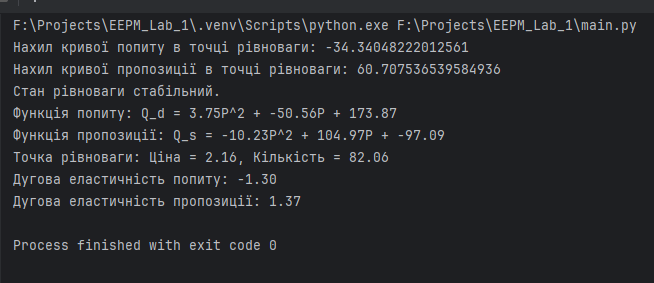
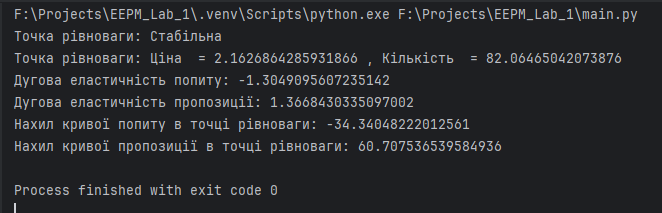
Coom1

diff --git a/main.py b/main.py
@@ -2,79 +2,73 @@ import numpy as np
 import matplotlib.pyplot as plt
 from scipy.optimize import curve_fit, fsolve
 
-prices = np.array([1.25, 1.57, 1.81, 2.09, 2.45, 2.8, 3.19, 3.58, 3.85, 4.25, 4.62, 5])
-demand_quantity = np.array([115, 109, 90, 85, 75, 58, 53, 40, 33, 30, 20, 14])
-supply_quantity = np.array([17, 40, 62, 80, 100, 117, 131, 145, 156, 165, 170, 172])
+price_array = np.array([1.25, 1.57, 1.81, 2.09, 2.45, 2.8, 3.19, 3.58, 3.85, 4.25, 4.62, 5])
+demand_volume = np.array([115, 109, 90, 85, 75, 58, 53, 40, 33, 30, 20, 14])
+supply_volume = np.array([17, 40, 62, 80, 100, 117, 131, 145, 156, 165, 170, 172])
 
-def poly_fit(x, a, b, c):
-    return a * x**2 + b * x + c
+def quadratic_fit(x, a, b, c):
+    return a * x ** 2 + b * x + c
 
-demand_params, _ = curve_fit(poly_fit, prices, demand_quantity)
+demand_coeffs = curve_fit(quadratic_fit, price_array, demand_volume)[0]
+supply_coeffs = curve_fit(quadratic_fit, price_array, supply_volume)[0]
 
-supply_params, _ = curve_fit(poly_fit, prices, supply_quantity)
+def find_balance(subvention=0):
+    balance_func = lambda p: quadratic_fit(p - subvention, *demand_coeffs) - quadratic_fit(p, *supply_coeffs)
+    equilibrium_cost = fsolve(balance_func, 2.5)[0]
+    equilibrium_amount = quadratic_fit(equilibrium_cost, *demand_coeffs)
+    return equilibrium_cost, equilibrium_amount
 
-def equilibrium(p, subsidy=0):
-    return poly_fit(p - subsidy, *demand_params) - poly_fit(p, *supply_params)
+balance_price, balance_quantity = find_balance()
+new_balance_price, new_balance_quantity = find_balance(subvention=1)
 
-equilibrium_price = fsolve(equilibrium, 2.5)[0]  # Початкове наближення ціни
+def arc_elasticity(q_start, q_end, p_start, p_end):
+    delta_q = (q_end - q_start) / ((q_end + q_start) / 2)
+    delta_p = (p_end - p_start) / ((p_end + p_start) / 2)
+    return delta_q / delta_p
 
-equilibrium_quantity = poly_fit(equilibrium_price, *demand_params)
+demand_elasticity = arc_elasticity(demand_volume[-1], demand_volume[0], price_array[-1], price_array[0])
+supply_elasticity = arc_elasticity(supply_volume[-1], supply_volume[0], price_array[-1], price_array[0])
 
-subsidy = 1
-new_equilibrium_price = fsolve(lambda p: equilibrium(p, subsidy), 2.5)[0]
-new_equilibrium_quantity = poly_fit(new_equilibrium_price, *demand_params)
+price_range = np.linspace(price_array.min(), price_array.max(), 100)
 
-def arc_elasticity(q1, q2, p1, p2):
-    dq = (q2 - q1) / ((q2 + q1) / 2)
-    dp = (p2 - p1) / ((p2 + p1) / 2)
-    return dq / dp
-
-demand_elasticity = arc_elasticity(demand_quantity[-1], demand_quantity[0], prices[-1], prices[0])
-supply_elasticity = arc_elasticity(supply_quantity[-1], supply_quantity[0], prices[-1], prices[0])
-
-prices_plot = np.linspace(prices.min(), prices.max(), 100)
-demand_plot = poly_fit(prices_plot, *demand_params)
-supply_plot = poly_fit(prices_plot, *supply_params)
-new_supply_plot = poly_fit(prices_plot - subsidy, *supply_params)  # Пропозиція з урахуванням дотації
+demand_curve = quadratic_fit(price_range, *demand_coeffs)
+supply_curve = quadratic_fit(price_range, *supply_coeffs)
+new_supply_curve = quadratic_fit(price_range - 1, *supply_coeffs)
 
 plt.figure(figsize=(10, 6))
-plt.plot(prices_plot, demand_plot, label='Попит', color='blue')
-plt.plot(prices_plot, supply_plot, label='Пропозиція', color='red')
-plt.plot(prices, demand_quantity, color='violet', linestyle='dashed', marker='o', label='Реальний попит')
-plt.plot(prices, supply_quantity, color='black', linestyle='dashed', marker='o', label='Реальна пропозиція')
-plt.plot(equilibrium_price, equilibrium_quantity, 'go', label='Точка рівноваги')
-plt.title('Функції попиту та пропозиції')
+plt.plot(price_array, demand_volume, color='violet', linestyle='dashed', marker='o', label='Реальний попит')
+plt.plot(price_array, supply_volume, color='black', linestyle='dashed', marker='o', label='Реальна пропозиція')
+plt.plot(price_range, demand_curve, label='Попит', color='blue')
+plt.plot(price_range, supply_curve, label='Пропозиція', color='red')
+plt.scatter(balance_price, balance_quantity, color='green', zorder=5, label='Точка рівноваги без дотацій')
+plt.title('Market Equilibrium')
 plt.xlabel('Ціна')
 plt.ylabel('Кількість')
 plt.legend()
 plt.grid(True)
-plt.show()
 
 plt.figure(figsize=(12, 8))
-plt.plot(prices_plot, demand_plot, label='Попит', color='blue')
-plt.plot(prices_plot, supply_plot, label='Пропозиція без дотації', color='red', linestyle='--')
-plt.plot(prices_plot, new_supply_plot, label='Пропозиція з дотацією', color='green')
-plt.scatter(equilibrium_price, equilibrium_quantity, color='black', zorder=5, label='Точка рівноваги без дотації')
-plt.scatter(new_equilibrium_price, new_equilibrium_quantity, color='orange', zorder=5, label='Точка рівноваги з дотацією')
-plt.title('Зміна ринкової рівноваги після введення дотації')
+plt.plot(price_range, demand_curve, label='Попит', color='blue')
+plt.plot(price_range, supply_curve, linestyle='--', label='Пропозиція без дотацій', color='red')
+plt.plot(price_range, new_supply_curve, label='Пропозиція з дотаціями', color='green')
+plt.scatter(new_balance_price, new_balance_quantity, color='orange', zorder=5, label='Точка рівноваги з дотаціями')
+plt.title('Impact of Subsidy on Market Equilibrium')
 plt.xlabel('Ціна')
 plt.ylabel('Кількість')
 plt.legend()
 plt.grid(True)
+
+plt.tight_layout()
 plt.show()
+demand_slope_at_equilibrium = 2 * demand_coeffs[0] * balance_price + demand_coeffs[1]
+supply_slope_at_equilibrium = 2 * supply_coeffs[0] * balance_price + supply_coeffs[1]
 
-demand_slope = 2 * demand_params[0] * equilibrium_price + demand_params[1]
-supply_slope = 2 * supply_params[0] * equilibrium_price + supply_params[1]
-print("Нахил кривої попиту в точці рівноваги:", demand_slope)
-print("Нахил кривої пропозиції в точці рівноваги:", supply_slope)
-if supply_slope > demand_slope:
-    print("Стан рівноваги стабільний.")
-else:
-    print("Стан рівноваги нестабільний.")
+equilibrium_stability = "Стабільна" if supply_slope_at_equilibrium > demand_slope_at_equilibrium else "Не стабільна"
 
-print(f"Функція попиту: Q_d = {demand_params[0]:.2f}P^2 + {demand_params[1]:.2f}P + {demand_params[2]:.2f}")
-print(f"Функція пропозиції: Q_s = {supply_params[0]:.2f}P^2 + {supply_params[1]:.2f}P + {supply_params[2]:.2f}")
-
-print(f"Точка рівноваги: Ціна = {equilibrium_price:.2f}, Кількість = {equilibrium_quantity:.2f}")
-print(f"Дугова еластичність попиту: {demand_elasticity:.2f}")
-print(f"Дугова еластичність пропозиції: {supply_elasticity:.2f}")
+# Print the results
+print("Точка рівноваги:", equilibrium_stability)
+print("Точка рівноваги: Ціна  =", balance_price, ", Кількість  =", balance_quantity)
+print("Дугова еластичність попиту:", demand_elasticity)
+print("Дугова еластичність пропозиції:", supply_elasticity)
+print("Нахил кривої попиту в точці рівноваги:", demand_slope_at_equilibrium)
+print("Нахил кривої пропозиції в точці рівноваги:", supply_slope_at_equilibrium)
